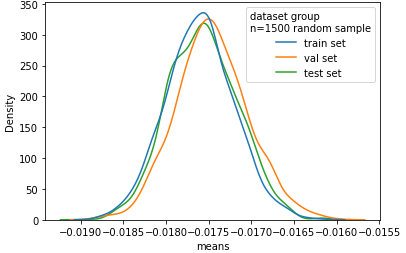
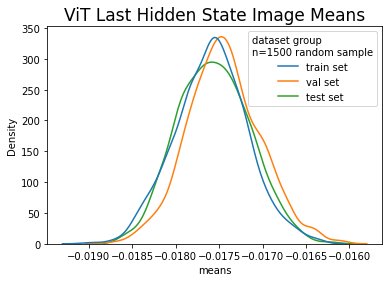
model_path

Changed region(s): [[0.0, 0.0, 0.9871, 0.996]]

diff --git a/scripts/utils.py b/scripts/utils.py
@@ -40,85 +40,11 @@ def pca_features(train_images, val_images, test_images, n_dims_kept):
     return transformed_train, transformed_val, transformed_test, pca
 
 
-def vit_avg_hidden_states(train_images, val_images, test_images):
-
+def vit_last_hidden_state(train_images, val_images, test_images, model_path):
     device = torch.device("cuda") if torch.cuda.is_available() \
         else torch.device("cpu")
-
-    feature_extractor = ViTFeatureExtractor.from_pretrained("google/vit-base-patch16-224-in21k")
-    model = ViTModel.from_pretrained("google/vit-base-patch16-224-in21k", output_hidden_states=True).to(device)
-    train_ViTs = np.zeros((len(train_images), 768))
-    for itr, img in enumerate(train_images):
-        image = img[:,:,0:3]
-        inputs = feature_extractor(image, return_tensors="pt")
-        with torch.no_grad():
-            outputs = model(**inputs.to(device))
-        hidden_states = outputs[2]
-        #print(len(hidden_states))  # 13
-        #embedding_output = hidden_states[0]
-        attention_hidden_states = hidden_states[1:]
-
-        att_states_loc = []
-        for state in attention_hidden_states:
-            att_states_loc.append(state.cpu().numpy())
-        att_states_loc = np.array(att_states_loc)
-
-        # take means along features and layers
-        att_states_loc = np.mean(att_states_loc, axis=0)
-        embedding = np.mean(att_states_loc, axis=1)
-
-        train_ViTs[itr, :] = embedding
-
-    val_ViTs = np.zeros((len(val_images), 768))
-    for itr, img in enumerate(val_images):
-        image = img[:,:,0:3]
-        inputs = feature_extractor(image, return_tensors="pt")
-        with torch.no_grad():
-            outputs = model(**inputs.to(device))
-        hidden_states = outputs[2]
-        #print(len(hidden_states))  # 13
-        #embedding_output = hidden_states[0]
-        attention_hidden_states = hidden_states[1:]
-
-        att_states_loc = []
-        for state in attention_hidden_states:
-            att_states_loc.append(state.cpu().numpy())
-        att_states_loc = np.array(att_states_loc)
-
-        # take means along features and layers
-        att_states_loc = np.mean(att_states_loc, axis=0)
-        embedding = np.mean(att_states_loc, axis=1)
-        val_ViTs[itr, :] = embedding
-
-    test_ViTs = np.zeros((len(test_images), 768))
-    for itr, img in enumerate(test_images):
-        image = img[:,:,0:3]
-        inputs = feature_extractor(image, return_tensors="pt")
-        with torch.no_grad():
-            outputs = model(**inputs.to(device))
-        hidden_states = outputs[2]
-        #print(len(hidden_states))  # 13
-        #embedding_output = hidden_states[0]
-        attention_hidden_states = hidden_states[1:]
-
-        att_states_loc = []
-        for state in attention_hidden_states:
-            att_states_loc.append(state.cpu().numpy())
-        att_states_loc = np.array(att_states_loc)
-
-        # take means along features and layers
-        att_states_loc = np.mean(att_states_loc, axis=0)
-        embedding = np.mean(att_states_loc, axis=1)
-        test_ViTs[itr, :] = embedding    
-
-    return train_ViTs, val_ViTs, test_ViTs 
-
-
-def vit_last_hidden_state(train_images, val_images, test_images):
-    device = torch.device("cuda") if torch.cuda.is_available() \
-        else torch.device("cpu")
-    feature_extractor = ViTFeatureExtractor.from_pretrained("google/vit-base-patch16-224-in21k")
-    model = ViTModel.from_pretrained("google/vit-base-patch16-224-in21k").to(device)
+    feature_extractor = ViTFeatureExtractor.from_pretrained(model_path)
+    model = ViTModel.from_pretrained(model_path).to(device)
 
     train_ViTs = np.zeros((len(train_images), 768))
     for itr, img in enumerate(train_images):
@@ -251,3 +177,77 @@ def bootstrap(predictions: List[int], B: int = 10000, confidence_level: int = 0.
 
     e_bar = ((np.mean(predictions) - lower) + (upper - np.mean(predictions)))/2
     return e_bar
+
+
+def vit_avg_hidden_states(train_images, val_images, test_images):
+
+    device = torch.device("cuda") if torch.cuda.is_available() \
+        else torch.device("cpu")
+
+    feature_extractor = ViTFeatureExtractor.from_pretrained("google/vit-base-patch16-224-in21k")
+    model = ViTModel.from_pretrained("google/vit-base-patch16-224-in21k", output_hidden_states=True).to(device)
+    train_ViTs = np.zeros((len(train_images), 768))
+    for itr, img in enumerate(train_images):
+        image = img[:,:,0:3]
+        inputs = feature_extractor(image, return_tensors="pt")
+        with torch.no_grad():
+            outputs = model(**inputs.to(device))
+        hidden_states = outputs[2]
+        #print(len(hidden_states))  # 13
+        #embedding_output = hidden_states[0]
+        attention_hidden_states = hidden_states[1:]
+
+        att_states_loc = []
+        for state in attention_hidden_states:
+            att_states_loc.append(state.cpu().numpy())
+        att_states_loc = np.array(att_states_loc)
+
+        # take means along features and layers
+        att_states_loc = np.mean(att_states_loc, axis=0)
+        embedding = np.mean(att_states_loc, axis=1)
+
+        train_ViTs[itr, :] = embedding
+
+    val_ViTs = np.zeros((len(val_images), 768))
+    for itr, img in enumerate(val_images):
+        image = img[:,:,0:3]
+        inputs = feature_extractor(image, return_tensors="pt")
+        with torch.no_grad():
+            outputs = model(**inputs.to(device))
+        hidden_states = outputs[2]
+        #print(len(hidden_states))  # 13
+        #embedding_output = hidden_states[0]
+        attention_hidden_states = hidden_states[1:]
+
+        att_states_loc = []
+        for state in attention_hidden_states:
+            att_states_loc.append(state.cpu().numpy())
+        att_states_loc = np.array(att_states_loc)
+
+        # take means along features and layers
+        att_states_loc = np.mean(att_states_loc, axis=0)
+        embedding = np.mean(att_states_loc, axis=1)
+        val_ViTs[itr, :] = embedding
+
+    test_ViTs = np.zeros((len(test_images), 768))
+    for itr, img in enumerate(test_images):
+        image = img[:,:,0:3]
+        inputs = feature_extractor(image, return_tensors="pt")
+        with torch.no_grad():
+            outputs = model(**inputs.to(device))
+        hidden_states = outputs[2]
+        #print(len(hidden_states))  # 13
+        #embedding_output = hidden_states[0]
+        attention_hidden_states = hidden_states[1:]
+
+        att_states_loc = []
+        for state in attention_hidden_states:
+            att_states_loc.append(state.cpu().numpy())
+        att_states_loc = np.array(att_states_loc)
+
+        # take means along features and layers
+        att_states_loc = np.mean(att_states_loc, axis=0)
+        embedding = np.mean(att_states_loc, axis=1)
+        test_ViTs[itr, :] = embedding    
+
+    return train_ViTs, val_ViTs, test_ViTs 
